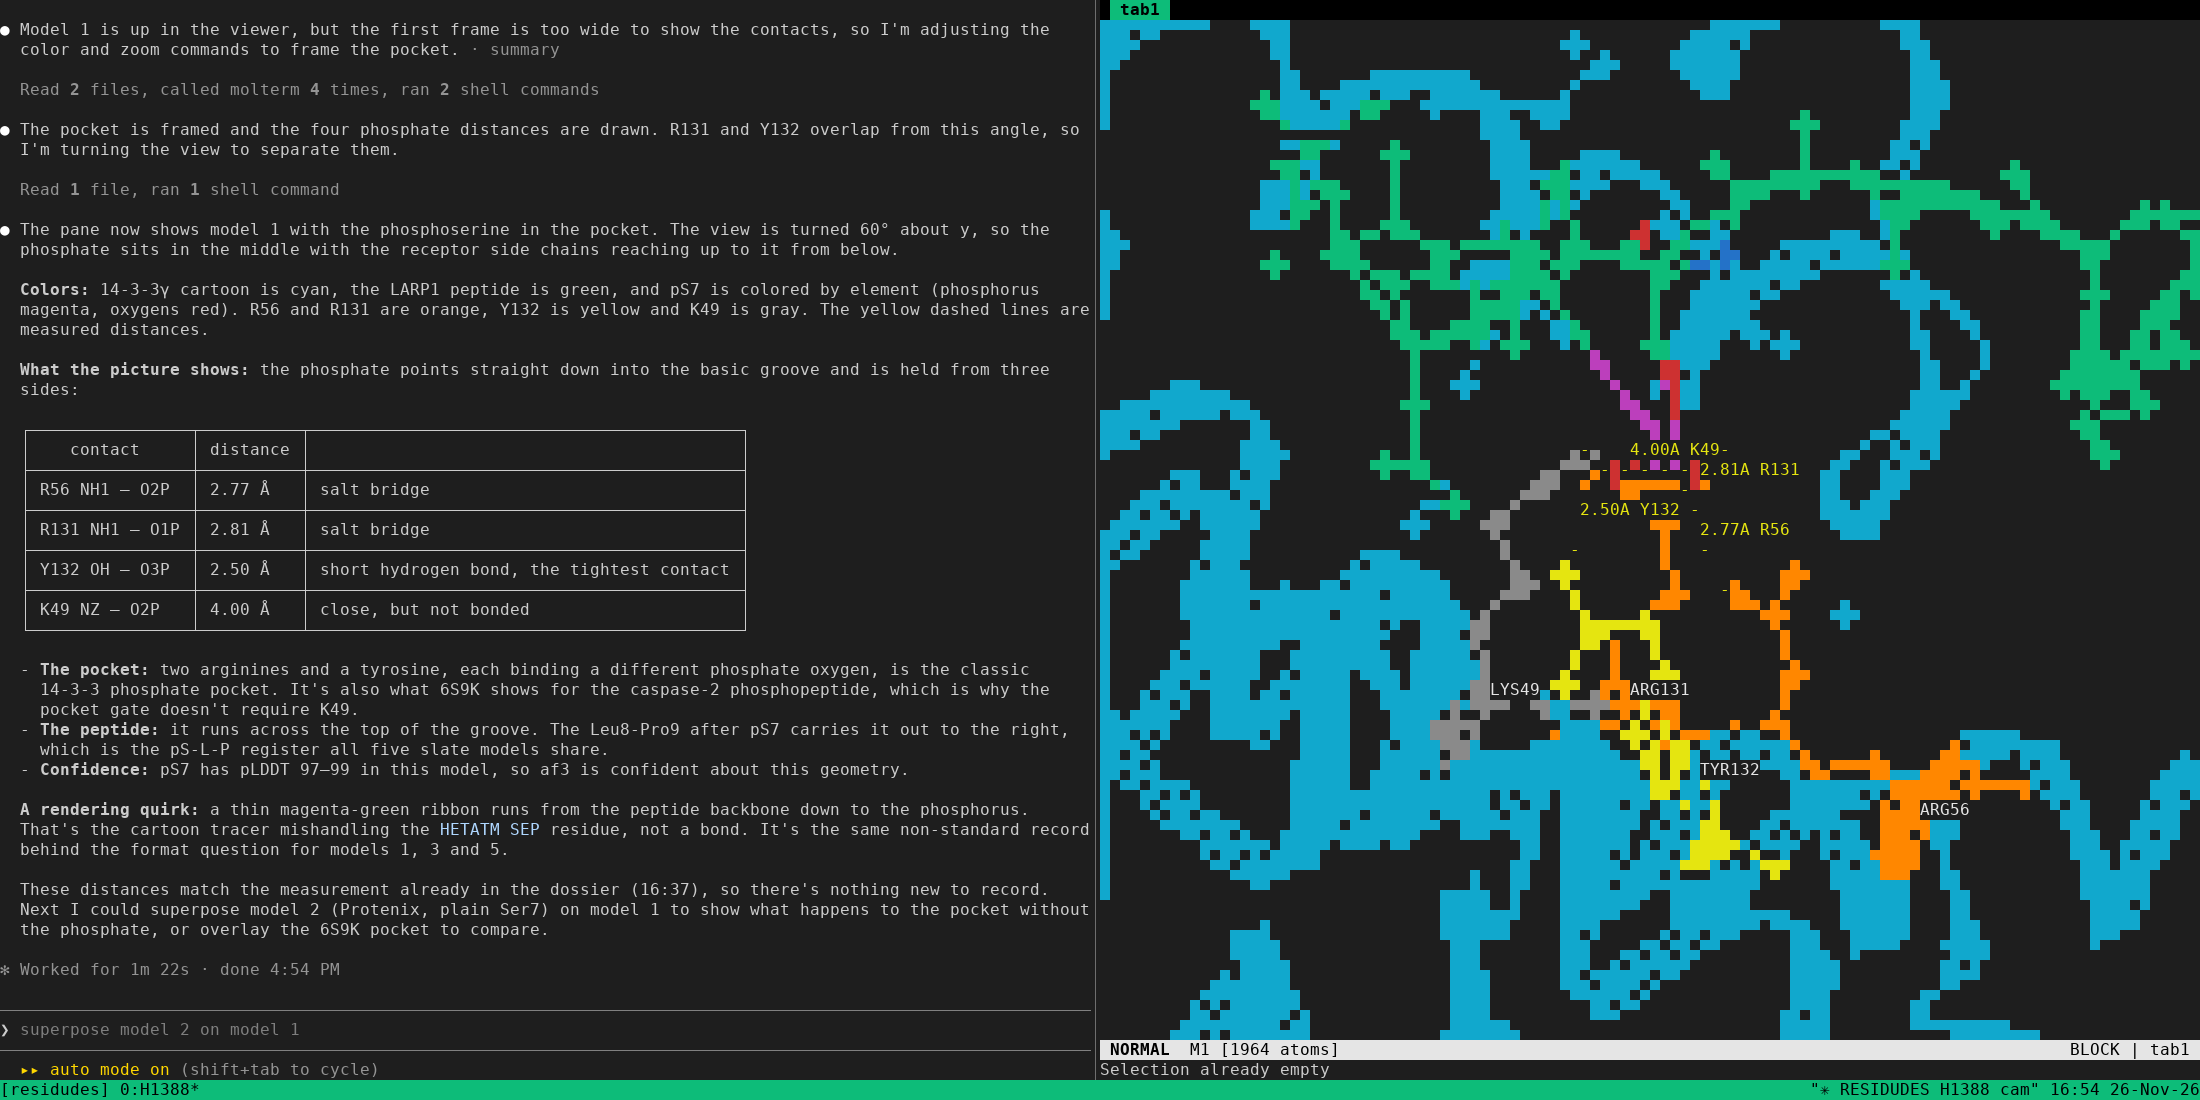
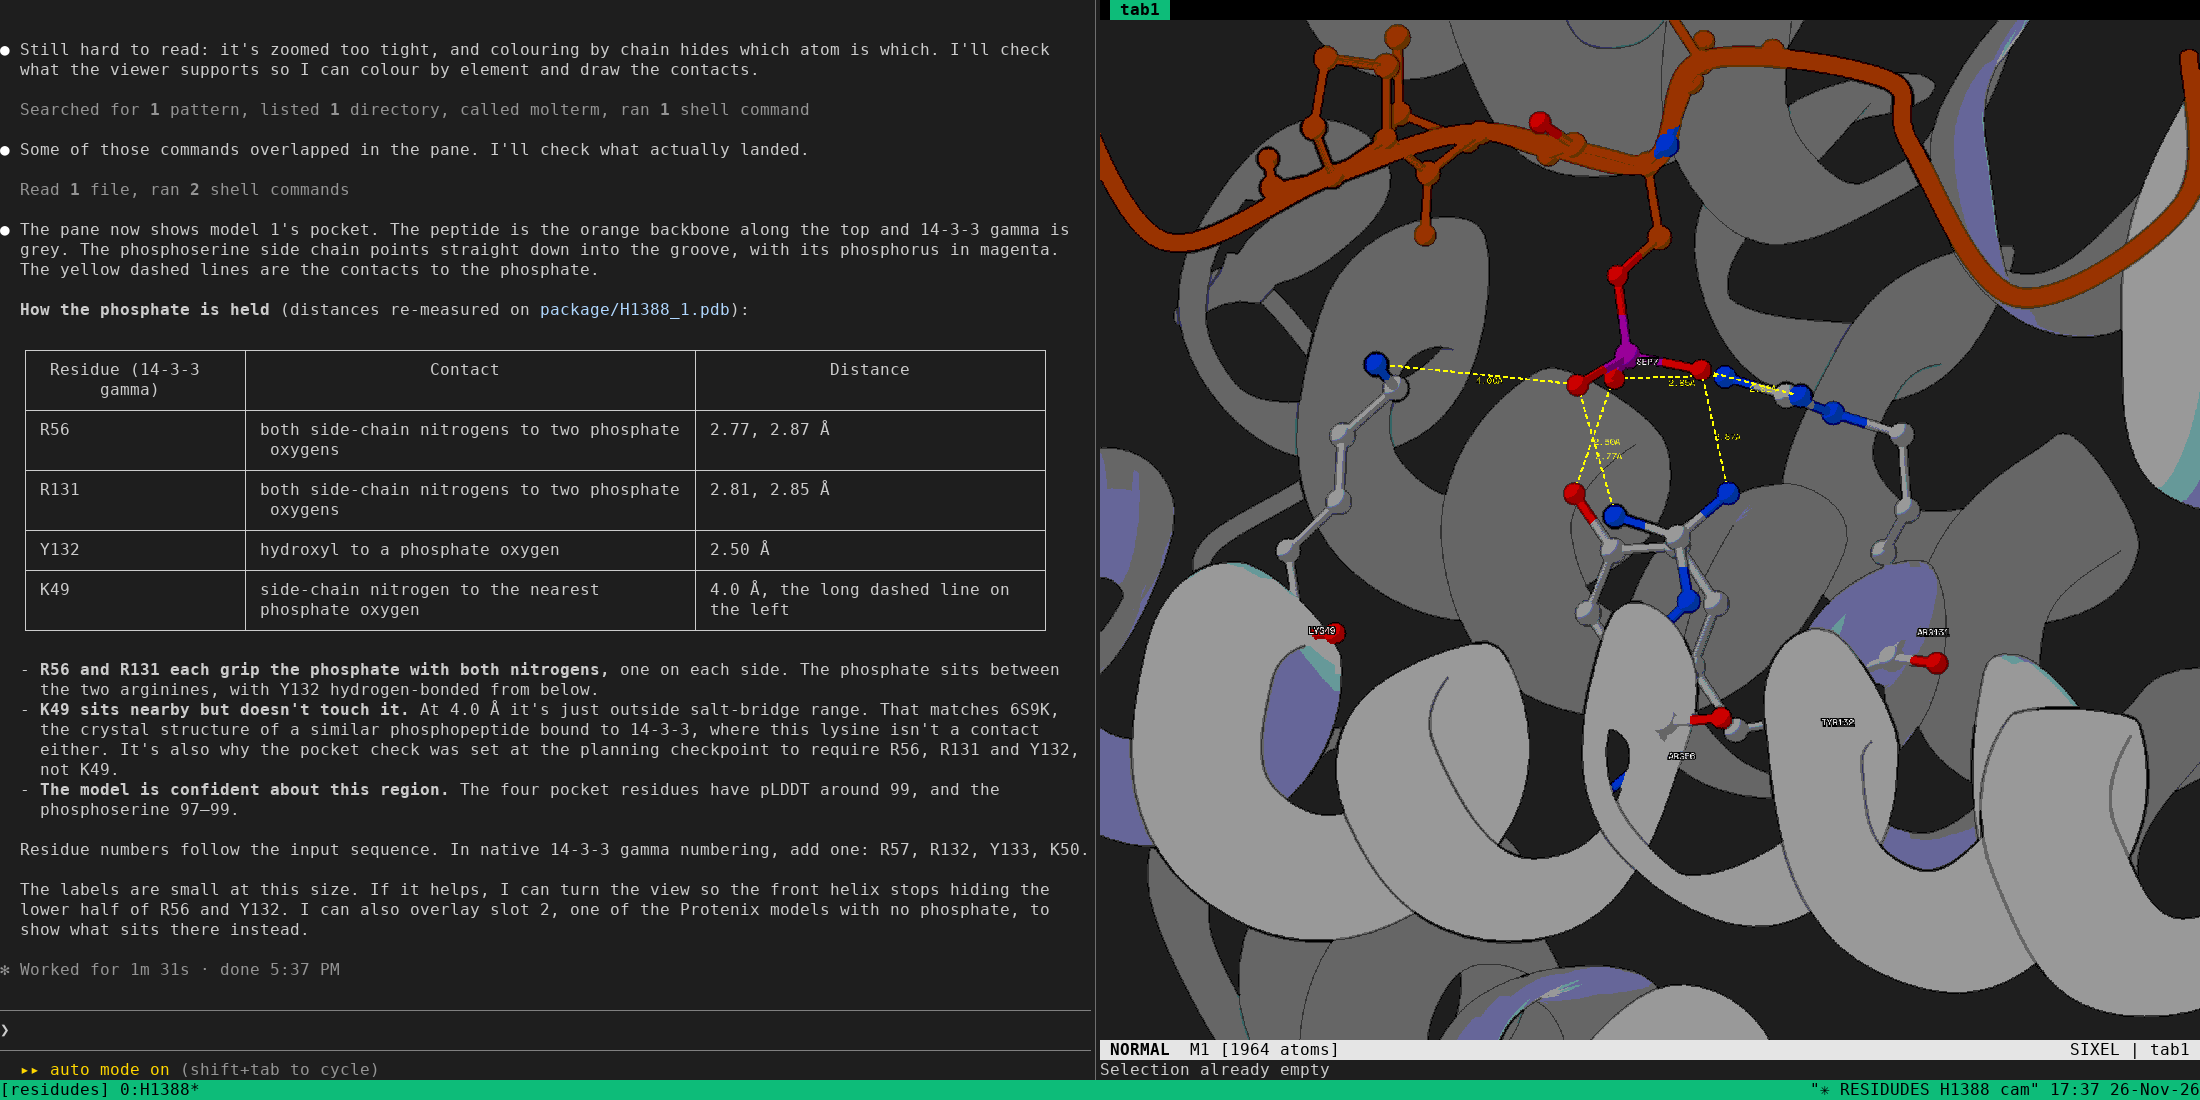
Show the chat's structure pane in pixels in the README, and let tmux_shot draw the pictures
The same English question on H1388, now in tmux 3.8 with sixel: molterm draws the pocket as a picture beside
the conversation. capture-pane holds only text, so `docs/tmux_shot.py --images` attaches a read-only client for
a moment at the drawing's cell size in pixels and puts the pictures tmux replays to it where tmux placed them.

Claude-Session: https://claude.ai/code/session_01DkdRL4mp8LirbTRvSDdW9L

diff --git a/docs/tmux_shot.py b/docs/tmux_shot.py
@@ -2,19 +2,33 @@
 line. tmux cannot take a screenshot, and a terminal's own one is not reproducible; this is how
 docs/figures/chat-molterm.png was made, from a `residudes chat` window with the structure pane open.
 
-usage: python3 docs/tmux_shot.py SOCKET_NAME TARGET_WINDOW OUT.png [font_px]     (needs pillow and fonttools)
+usage: python3 docs/tmux_shot.py SOCKET_NAME TARGET_WINDOW OUT.png [font_px] [--images]   (needs pillow, fonttools)
        SOCKET_NAME is tmux's -L name ("default" for the usual server); TARGET_WINDOW e.g. residudes:H1388
+       --images: also draw the sixel pictures in the panes (tmux 3.4+ built with sixel). capture-pane has only
+       text, so a read-only client is attached for a moment at this drawing's cell size in pixels; tmux replays
+       its stored pictures to it, scaled to that size, and they are put where tmux placed them.
 """
+import colorsys
+import fcntl
+import os
+import pty
 import re
+import select
+import signal
+import struct
 import subprocess
 import sys
+import termios
+import time
 import unicodedata
 
 from fontTools.ttLib import TTFont
 from PIL import Image, ImageDraw, ImageFont
 
-SOCK, WIN, OUT = sys.argv[1:4]
-PX = int(sys.argv[4]) if len(sys.argv) > 4 else 16
+IMAGES = "--images" in sys.argv
+ARGS = [a for a in sys.argv[1:] if a != "--images"]
+SOCK, WIN, OUT = ARGS[:3]
+PX = int(ARGS[3]) if len(ARGS) > 3 else 16
 
 
 def font_file(pattern: str) -> str | None:
@@ -236,6 +250,79 @@ if status:                                              # tmux's own default bar
     for i, ch in enumerate(r):
         if ww - len(r) + i >= len(bar):
             cell(ww - len(r) + i, y, ch, st)
+
+def replayed(cols: int, rows: int) -> bytes:
+    """What tmux sends a read-only client of this drawing's size, in characters and pixels, as it attaches."""
+    pid, fd = pty.fork()
+    if pid == 0:
+        fcntl.ioctl(0, termios.TIOCSWINSZ, struct.pack("HHHH", rows, cols, cols * CW, rows * CH))
+        os.environ["TERM"] = "xterm-256color"
+        for k in ("TMUX", "TMUX_PANE"):
+            os.environ.pop(k, None)
+        os.execvp("tmux", ["tmux", "-L", SOCK, "attach", "-f", "read-only,ignore-size", "-t", WIN])
+    raw, end = b"", time.time() + 3
+    while time.time() < end:
+        if select.select([fd], [], [], 0.2)[0]:
+            try:
+                raw += os.read(fd, 1 << 16)
+            except OSError:
+                break
+    os.kill(pid, signal.SIGTERM)
+    os.waitpid(pid, 0)
+    return raw
+
+
+def sixel(data: str) -> Image.Image:
+    """One DECSIXEL body (after `q`) as an RGBA picture; pixels it does not set stay transparent."""
+    ra = re.match(r'"(\d+);(\d+);(\d+);(\d+)', data)
+    w, h = int(ra.group(3)), int(ra.group(4))
+    data = data[ra.end():]
+    pic = Image.new("RGBA", (w, h), (0, 0, 0, 0))
+    px = pic.load()
+    pal, cur, x, y, i = {}, (255, 255, 255, 255), 0, 0, 0
+    while i < len(data):
+        c = data[i]
+        if c == "#":
+            m = re.match(r"#(\d+)(?:;(\d+);(\d+);(\d+);(\d+))?", data[i:])
+            i += m.end()
+            n = int(m.group(1))
+            if m.group(2):
+                u, a, b, d = map(int, m.group(2, 3, 4, 5))
+                rgb = [v * 2.55 for v in (a, b, d)] if u == 2 else \
+                    [v * 255 for v in colorsys.hls_to_rgb(((a - 120) % 360) / 360, b / 100, d / 100)]
+                pal[n] = (*(round(v) for v in rgb), 255)
+            cur = pal.get(n, cur)
+            continue
+        if c == "!":
+            m = re.match(r"!(\d+)(.)", data[i:])
+            i += m.end()
+            rep, ch = int(m.group(1)), m.group(2)
+        elif c in "$-":
+            x, y, i = 0, y + 6 * (c == "-"), i + 1
+            continue
+        elif "?" <= c <= "~":
+            rep, ch, i = 1, c, i + 1
+        else:
+            i += 1
+            continue
+        bits = ord(ch) - 63
+        for _ in range(rep):
+            for k in range(6):
+                if bits >> k & 1 and x < w and y + k < h:
+                    px[x, y + k] = cur
+            x += 1
+    return pic
+
+
+if IMAGES:
+    raw = replayed(ww, wh + status)
+    last = {}
+    for m in re.finditer(rb"\x1b\[(\d+);(\d+)H\x1bP[0-9;]*q(.*?)\x1b\\", raw, re.S):
+        last[int(m.group(1)), int(m.group(2))] = m.group(3)             # a later picture at one spot replaces it
+    for (row, col), data in last.items():
+        pic = sixel(data.decode("latin1"))
+        img.paste(pic, ((col - 1) * CW, (row - 1) * CH), pic)
+    print(f"{len(last)} picture(s) from tmux")
 
 img.save(OUT)
 print(OUT, img.size)

diff --git a/README.md b/README.md
@@ -60,13 +60,14 @@ on its own lists every target, which are in conversation and which are waiting o
 
 Ask about a shape and the agent answers with the structure: it opens molterm in a pane beside the
 conversation, drives it as you talk (colours, labels, distances, another model on top) and closes it
-when you are done. Here it was asked how H1388's phosphoserine sits in the 14-3-3 pocket. The pane draws
-with characters, slim by default; a tmux with sixel (3.4 or later) and a terminal that shows images get
-pixels instead, and the agent reads its own full-resolution snapshot either way.
+when you are done. Here it was asked how H1388's phosphoserine sits in the 14-3-3 pocket. With a tmux built
+with sixel (3.4 or later) and a terminal that shows images (in VS Code, `terminal.integrated.enableImages`)
+the pane draws pixels, as here; otherwise it draws with characters, slim by default. The agent reads its own
+full-resolution snapshot either way.
 
 [![a residudes chat window: the conversation on the left, molterm on the right with the phosphoserine, the pocket residues and their distances](docs/figures/chat-molterm.png)](docs/figures/chat-molterm.png)
 
-<sub>The tmux window itself, drawn by [`docs/tmux_shot.py`](docs/tmux_shot.py).</sub>
+<sub>The tmux window itself, text and picture, drawn by [`docs/tmux_shot.py`](docs/tmux_shot.py) `--images`.</sub>
 
 [`docs/setup.md`](docs/setup.md) documents the installation in full: container images or virtual
 environments, the MSA databases, and the three components that must be obtained by the user
